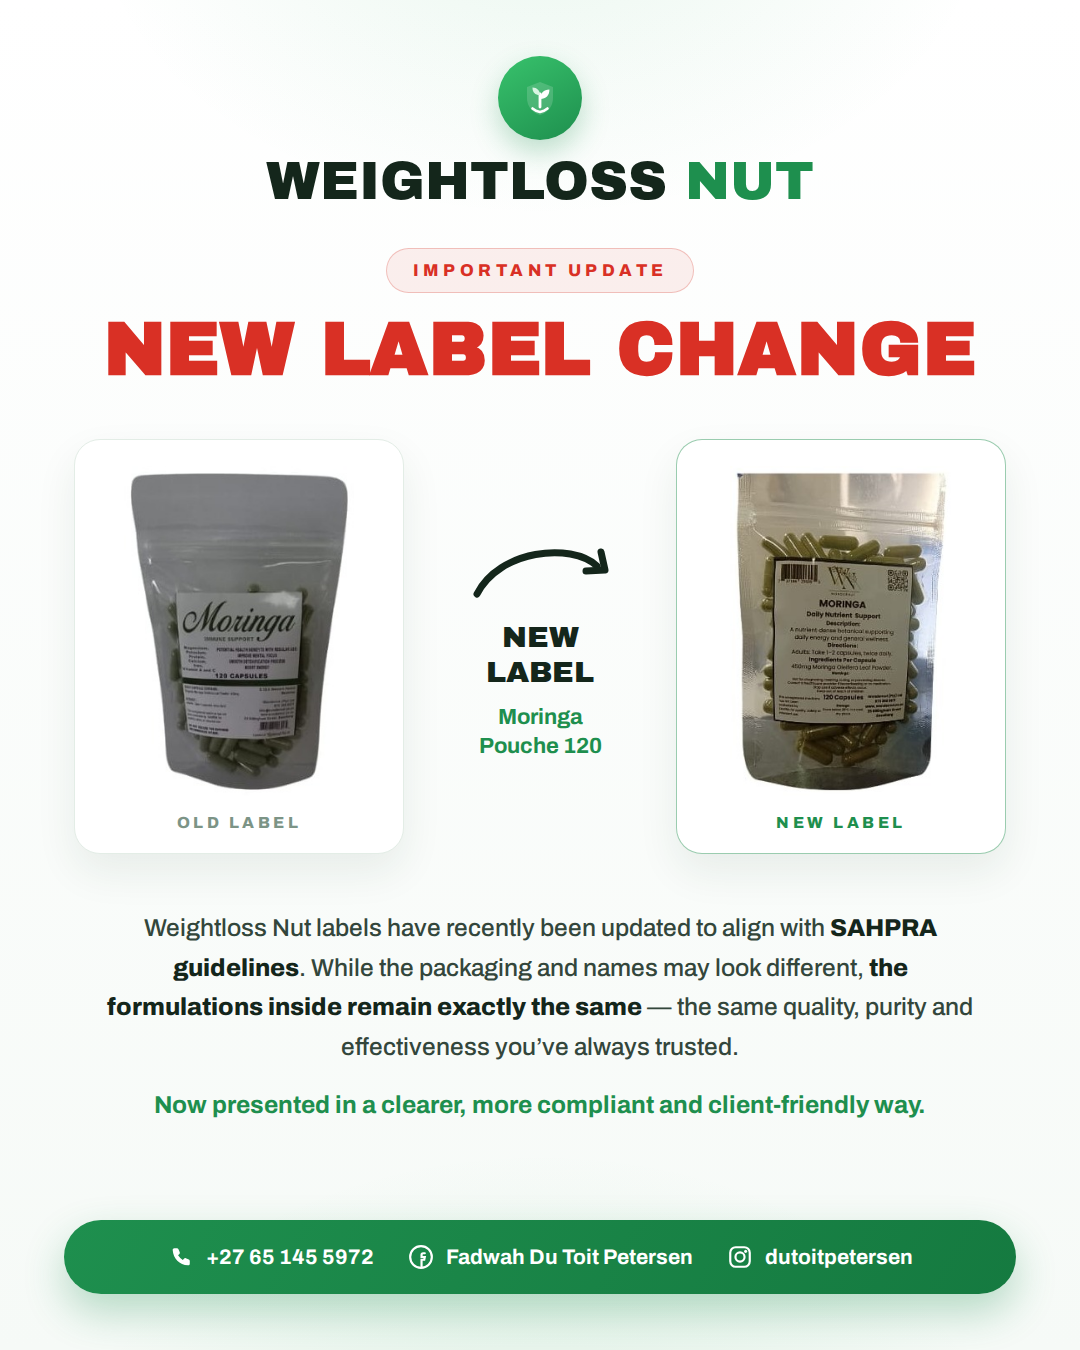
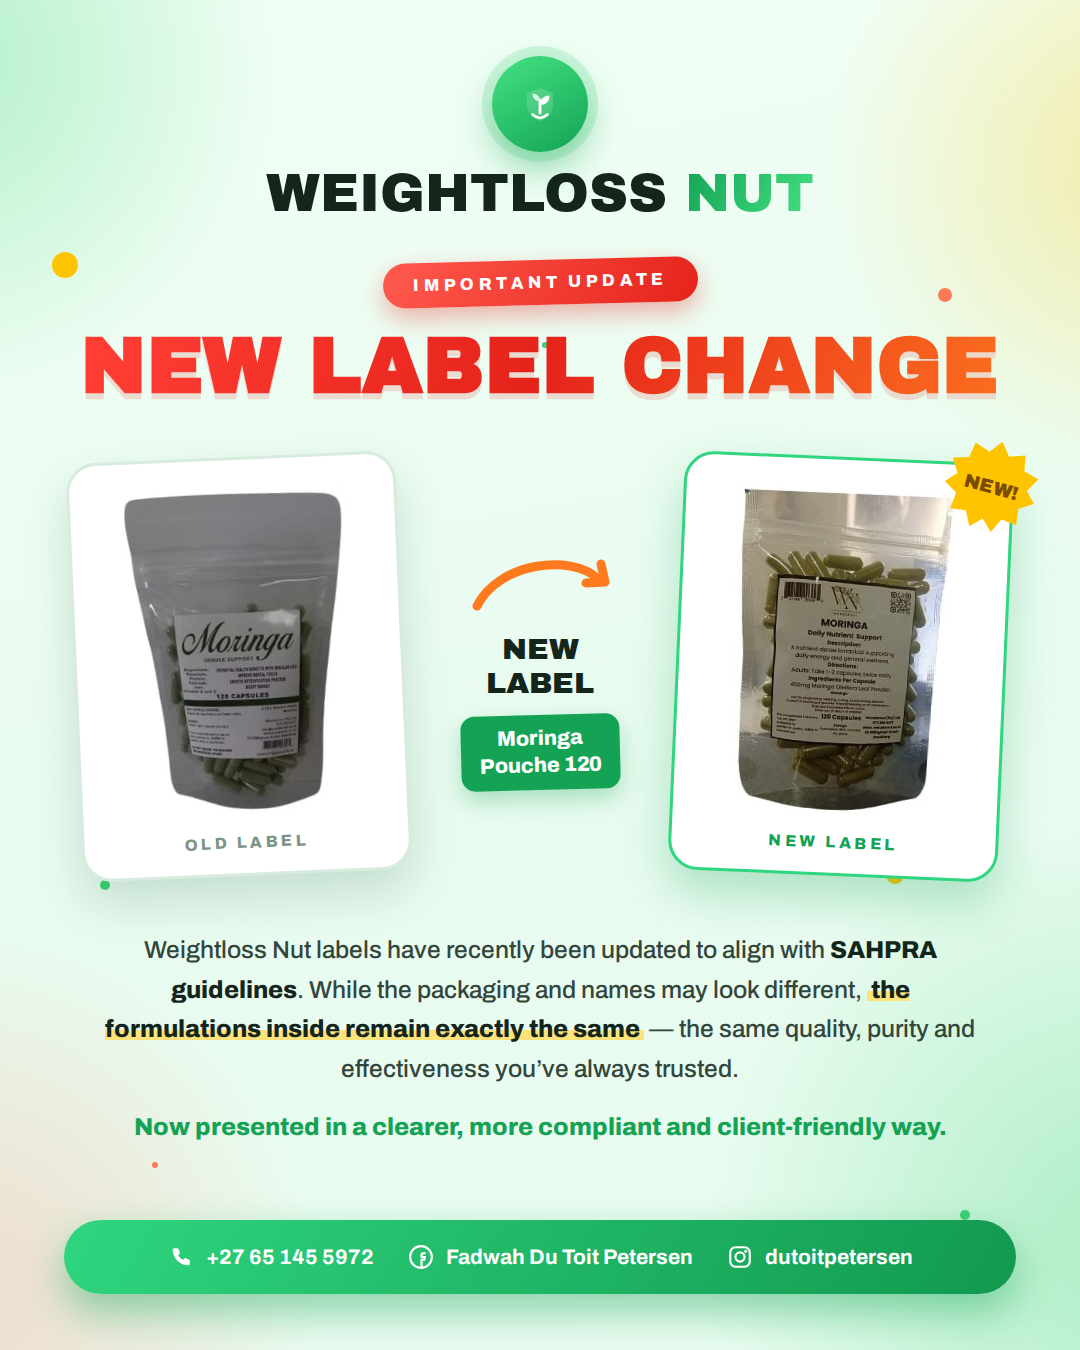
Make Weightloss Nut announcement vibrant and playful
Colourful blob background with confetti dots, gradient headline and
solid red kicker pill, tilted comparison cards with a NEW! starburst
badge, orange arrow, marker-highlighted key phrase, and brighter green
product tag and contact bar.

Claude-Session: https://claude.ai/code/session_01JpQZhsXoJ8kSinvaSd1GMV

diff --git a/flyer/weightloss-nut/index.html b/flyer/weightloss-nut/index.html
@@ -22,11 +22,25 @@
     position: relative;
     width: 1080px; height: 1350px;
     background:
-      radial-gradient(700px 500px at 50% -8%, rgba(47, 174, 95, 0.10), transparent 65%),
-      radial-gradient(800px 600px at 50% 112%, rgba(47, 174, 95, 0.12), transparent 60%),
-      linear-gradient(180deg, #ffffff 0%, #f6faf7 100%);
+      radial-gradient(560px 560px at -6% 4%, rgba(58, 211, 114, 0.35), transparent 62%),
+      radial-gradient(520px 520px at 106% 12%, rgba(255, 196, 0, 0.30), transparent 62%),
+      radial-gradient(600px 600px at -4% 96%, rgba(255, 122, 89, 0.25), transparent 60%),
+      radial-gradient(680px 680px at 104% 92%, rgba(58, 211, 114, 0.35), transparent 62%),
+      linear-gradient(170deg, #f2fff6 0%, #e8fbef 55%, #eafcf1 100%);
     overflow: hidden;
     text-align: center;
+  }
+  .poster::before, .poster::after {
+    content: '';
+    position: absolute; border-radius: 50%;
+    pointer-events: none;
+  }
+  .poster::before {
+    width: 26px; height: 26px; left: 52px; top: 252px;
+    background: #ffc400;
+    box-shadow: 880px 30px 0 -6px #ff7a59, 40px 620px 0 -8px #3ad372,
+                830px 610px 0 -4px #ffc400, 90px 900px 0 -10px #ff7a59,
+                900px 950px 0 -8px #3ad372, 480px 80px 0 -10px #3ad372;
   }
 
   /* ---------- brand header ---------- */
@@ -35,18 +49,21 @@
     display: flex; flex-direction: column; align-items: center; gap: 14px;
   }
   .brand .mark {
-    width: 84px; height: 84px;
+    width: 96px; height: 96px;
     border-radius: 50%;
-    background: linear-gradient(150deg, #38c26c, #1e8f4e);
+    background: linear-gradient(150deg, #45e283, #14a355);
     display: flex; align-items: center; justify-content: center;
-    box-shadow: 0 12px 28px rgba(30, 143, 78, 0.28);
+    box-shadow: 0 16px 36px rgba(20, 163, 85, 0.45), 0 0 0 10px rgba(58, 211, 114, 0.18);
   }
   .brand .name {
     font-family: 'Archivo Black';
     font-size: 54px; line-height: 1;
     color: #14261b;
   }
-  .brand .name .g { color: #1e8f4e; }
+  .brand .name .g {
+    background: linear-gradient(120deg, #14a355, #45e283);
+    -webkit-background-clip: text; background-clip: text; color: transparent;
+  }
 
   /* ---------- headline ---------- */
   .headline {
@@ -54,19 +71,22 @@
   }
   .headline .kicker {
     display: inline-block;
-    padding: 12px 26px;
+    padding: 13px 30px;
     border-radius: 999px;
-    background: rgba(217, 48, 37, 0.08);
-    border: 1px solid rgba(217, 48, 37, 0.25);
-    color: #d93025;
+    background: linear-gradient(120deg, #ff5a4e, #e6231b);
+    color: #ffffff;
     font-size: 17px; font-weight: 800; letter-spacing: 0.26em;
+    box-shadow: 0 10px 24px rgba(230, 35, 27, 0.35);
+    transform: rotate(-1.5deg);
   }
   .headline h1 {
-    margin-top: 20px;
+    margin-top: 22px;
     font-family: 'Archivo Black';
-    font-size: 74px; line-height: 1;
-    color: #d93025;
+    font-size: 78px; line-height: 1;
+    background: linear-gradient(110deg, #ff3d33 10%, #e6231b 50%, #ff7a1f 100%);
+    -webkit-background-clip: text; background-clip: text; color: transparent;
     letter-spacing: 0.01em;
+    filter: drop-shadow(0 6px 0 rgba(230, 35, 27, 0.15));
   }
 
   /* ---------- comparison ---------- */
@@ -78,11 +98,13 @@
   .pouch-card {
     flex: 0 0 330px;
     background: #ffffff;
-    border: 1px solid #e3ede6;
-    border-radius: 26px;
-    box-shadow: 0 18px 40px rgba(20, 60, 35, 0.08);
+    border: 3px solid #d7ebde;
+    border-radius: 30px;
+    box-shadow: 0 22px 46px rgba(20, 80, 45, 0.16);
     padding: 26px 24px 22px;
     display: flex; flex-direction: column; align-items: center; justify-content: space-between;
+    position: relative;
+    transform: rotate(-2.5deg);
   }
   .pouch-card img { height: 330px; display: block; }
   .pouch-card .cap {
@@ -90,8 +112,24 @@
     font-size: 16px; font-weight: 800; letter-spacing: 0.22em;
     color: #7c9486;
   }
-  .pouch-card.new { border-color: rgba(30, 143, 78, 0.45); }
-  .pouch-card.new .cap { color: #1e8f4e; }
+  .pouch-card.new {
+    border-color: #2fd57f;
+    transform: rotate(2.5deg);
+    box-shadow: 0 22px 46px rgba(20, 163, 85, 0.28);
+  }
+  .pouch-card.new .cap { color: #14a355; }
+  .pouch-card.new::after {
+    content: 'NEW!';
+    position: absolute; top: -26px; right: -26px;
+    width: 92px; height: 92px;
+    background:
+      radial-gradient(circle, #ffc400 0 100%);
+    clip-path: polygon(50% 0%, 61% 14%, 78% 8%, 81% 25%, 98% 30%, 89% 45%, 100% 57%, 85% 66%, 87% 84%, 70% 82%, 62% 98%, 50% 86%, 38% 98%, 30% 82%, 13% 84%, 15% 66%, 0% 57%, 11% 45%, 2% 30%, 19% 25%, 22% 8%, 39% 14%);
+    display: flex; align-items: center; justify-content: center;
+    font-family: 'Archivo Black';
+    font-size: 19px; color: #7a4b00;
+    transform: rotate(12deg);
+  }
   .mid {
     flex: 0 0 220px;
     display: flex; flex-direction: column; align-items: center; justify-content: center; gap: 14px;
@@ -101,7 +139,14 @@
     font-size: 30px; color: #14261b; line-height: 1.15;
   }
   .mid .product {
-    font-size: 22px; font-weight: 700; color: #1e8f4e; line-height: 1.3;
+    display: inline-block;
+    padding: 10px 18px;
+    border-radius: 14px;
+    background: #14a355;
+    color: #ffffff;
+    font-size: 21px; font-weight: 800; line-height: 1.3;
+    box-shadow: 0 10px 22px rgba(20, 163, 85, 0.3);
+    transform: rotate(-1.5deg);
   }
 
   /* ---------- body copy ---------- */
@@ -112,15 +157,20 @@
     color: #33463b;
   }
   .copy b { color: #14261b; font-weight: 800; }
-  .copy .closing { margin-top: 18px; color: #1e8f4e; font-weight: 700; }
+  .copy .hl {
+    font-weight: 800; color: #14261b;
+    background: linear-gradient(180deg, transparent 55%, #ffe27a 55% 92%, transparent 92%);
+    padding: 0 4px;
+  }
+  .copy .closing { margin-top: 18px; color: #14a355; font-weight: 800; }
 
   /* ---------- contact footer ---------- */
   .contact {
     position: absolute;
     left: 64px; right: 64px; bottom: 56px;
     border-radius: 999px;
-    background: linear-gradient(120deg, #1e8f4e, #157a40);
-    box-shadow: 0 18px 40px rgba(30, 143, 78, 0.3);
+    background: linear-gradient(120deg, #2fd57f, #12994f);
+    box-shadow: 0 18px 40px rgba(20, 163, 85, 0.45);
     padding: 24px 44px;
     display: flex; align-items: center; justify-content: center; gap: 34px;
     color: #ffffff;
@@ -161,8 +211,8 @@
     </div>
     <div class="mid">
       <svg width="150" height="74" viewBox="0 0 150 74" fill="none">
-        <path d="M12 62C34 18 106 10 132 34" stroke="#14261b" stroke-width="7" stroke-linecap="round"/>
-        <path d="M136 20l4 18-19 1" stroke="#14261b" stroke-width="7" stroke-linecap="round" stroke-linejoin="round" fill="none"/>
+        <path d="M12 62C34 18 106 10 132 34" stroke="#ff7a1f" stroke-width="9" stroke-linecap="round"/>
+        <path d="M136 20l4 18-19 1" stroke="#ff7a1f" stroke-width="9" stroke-linecap="round" stroke-linejoin="round" fill="none"/>
       </svg>
       <div class="new-label">NEW<br>LABEL</div>
       <div class="product">Moringa<br>Pouche 120</div>
@@ -175,8 +225,8 @@
 
   <div class="copy">
     Weightloss Nut labels have recently been updated to align with <b>SAHPRA guidelines</b>.
-    While the packaging and names may look different, <b>the formulations inside remain
-    exactly the same</b> &mdash; the same quality, purity and effectiveness you&rsquo;ve always trusted.
+    While the packaging and names may look different, <span class="hl">the formulations inside
+    remain exactly the same</span> &mdash; the same quality, purity and effectiveness you&rsquo;ve always trusted.
     <div class="closing">Now presented in a clearer, more compliant and client-friendly way.</div>
   </div>
 
